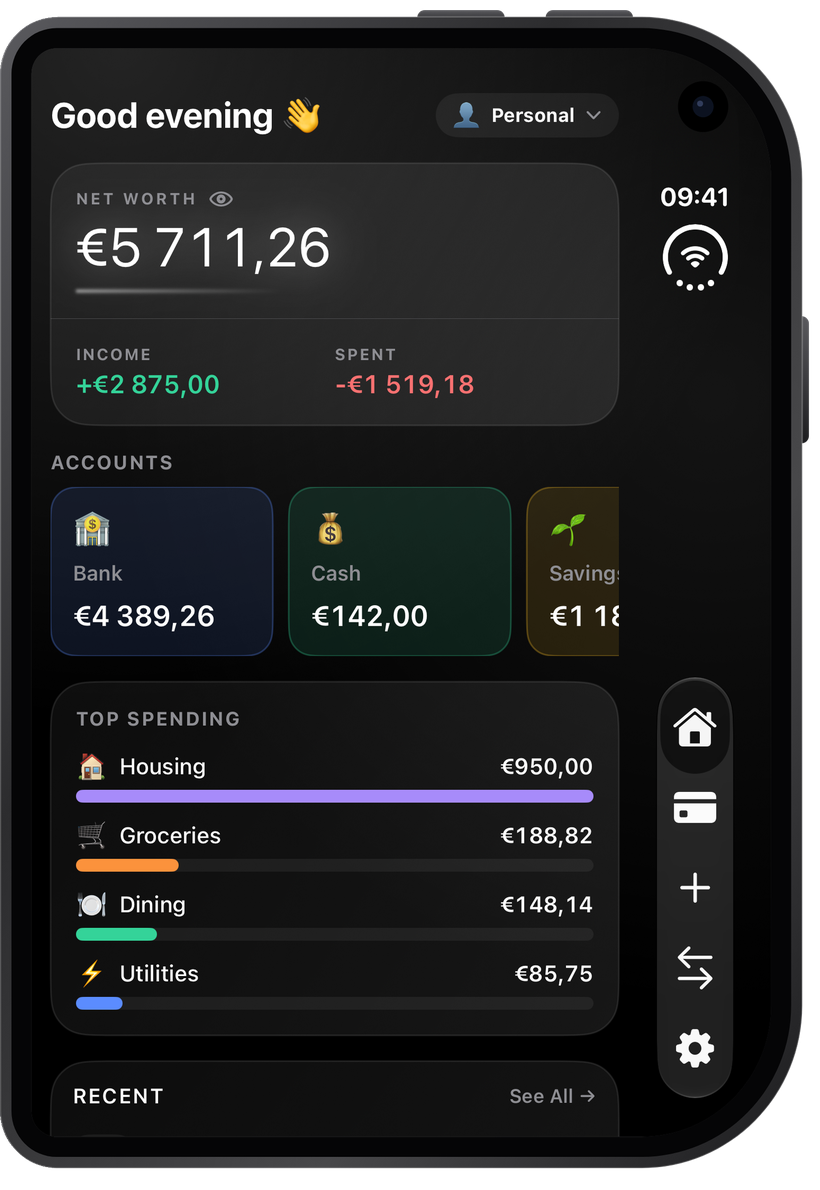
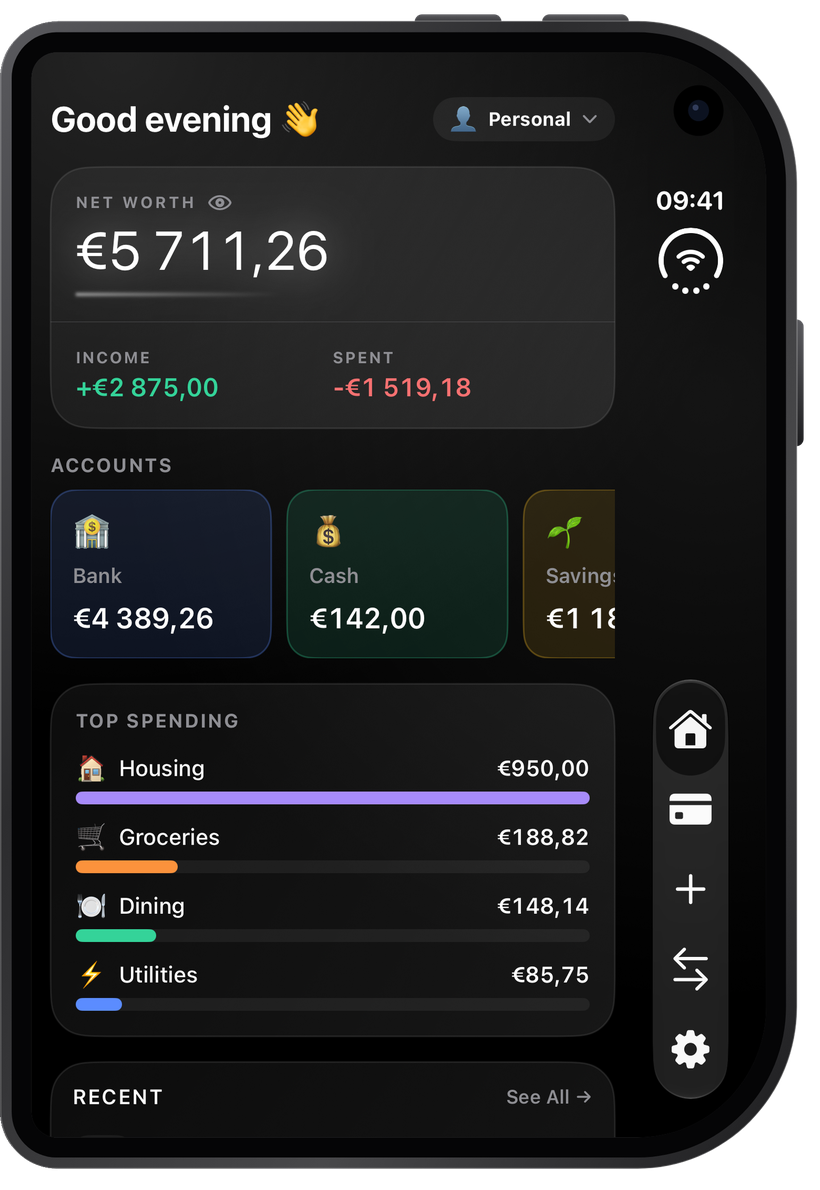
Website: Duo cover swings toward the viewer; open phone trimmed to its bare body so no doubled buttons show behind the cover

diff --git a/site/index.html b/site/index.html
@@ -191,7 +191,7 @@ footer .soc svg{width:20px;height:20px;fill:none;stroke:currentColor;stroke-widt
    off the base: the two frame drawings differ at the corners and buttons, so near flat the base would peek out */
 .duo-dev.open .r{visibility:visible;transition-delay:.12s}
 .duo-dev .cover{transform-origin:left center;transform-style:preserve-3d;transition:transform var(--t);will-change:transform}
-.duo-dev.open .cover{transform:rotateY(-180deg)}
+.duo-dev.open .cover{transform:rotateY(180deg)}   /* +180: swings toward the viewer, so it hides the base on the way */
 .duo-dev .face{position:absolute;inset:0;backface-visibility:hidden;-webkit-backface-visibility:hidden}
 .duo-dev .back{transform:rotateY(180deg)}
 .duo-dev img{display:block;pointer-events:none;user-select:none;-webkit-user-select:none;-webkit-user-drag:none}

diff --git a/templates/home.html b/templates/home.html
@@ -170,7 +170,7 @@ footer .soc svg{width:20px;height:20px;fill:none;stroke:currentColor;stroke-widt
    off the base: the two frame drawings differ at the corners and buttons, so near flat the base would peek out */
 .duo-dev.open .r{visibility:visible;transition-delay:.12s}
 .duo-dev .cover{transform-origin:left center;transform-style:preserve-3d;transition:transform var(--t);will-change:transform}
-.duo-dev.open .cover{transform:rotateY(-180deg)}
+.duo-dev.open .cover{transform:rotateY(180deg)}   /* +180: swings toward the viewer, so it hides the base on the way */
 .duo-dev .face{position:absolute;inset:0;backface-visibility:hidden;-webkit-backface-visibility:hidden}
 .duo-dev .back{transform:rotateY(180deg)}
 .duo-dev img{display:block;pointer-events:none;user-select:none;-webkit-user-select:none;-webkit-user-drag:none}

diff --git a/generator.py b/generator.py
@@ -119,18 +119,18 @@ DUO_SCALE = 1640 / 3082   # open frame width -> output width; closed uses the sa
 
 def _duo_cover(im):
     """Fit the closed phone onto the right half of the open one, edge to edge, so it can be the
-    cover that swings open: outer body x 66..1596, y 20..2170 -> inner right half x 0..1521, y 32..2194
+    cover that swings open: outer body x 66..1584, y 20..2170 -> open body's right half x 0..1499, y 40..2195
     (measured from the two frames). x 19..65 is the hinge spine drawn beside the phone; it is cut off,
     since it reads as a separate object once the cover lifts. x 66 starts the same 24px rim as the right edge."""
     from PIL import Image, ImageChops, ImageDraw
-    sx, sy = 1521 / (1596 - 66), (2194 - 32) / (2170 - 20)
+    sx, sy = 1499 / (1584 - 66), (2195 - 40) / (2170 - 20)
     body = im.resize((round(im.width * sx), round(im.height * sy)), Image.LANCZOS)
     half = Image.new("RGBA", (3082 // 2, 2236))
     body = body.crop((round(66 * sx), 0, round(66 * sx) + half.width, body.height))  # drop the spine
-    half.alpha_composite(body, (0, round(32 - 20 * sy)))
+    half.alpha_composite(body, (0, round(40 - 20 * sy)))
     # round the hinge-side corners like the others (screen radius 47 + 60 of bezel and rim), which also
     # clears the cut-off ends of the spine poking past the top and bottom
-    r, top, bot = 107, 32, 2194
+    r, top, bot = 107, 40, 2195
     keep = Image.new("L", half.size, 255)
     d = ImageDraw.Draw(keep)
     d.rectangle((0, 0, r, top + r), 0); d.ellipse((0, top, 2 * r, top + 2 * r), 255)
@@ -139,7 +139,7 @@ def _duo_cover(im):
     return half
 
 def _build_duo():
-    from PIL import Image, ImageDraw
+    from PIL import Image, ImageChops, ImageDraw
     base = pathlib.Path(__file__).parent / "appearances"
     for state, frame, shot, xy, radius, corners in DUO:
         # ponytail: an appearance without its own Duo captures borrows espresso's; capture them to fix
@@ -157,6 +157,11 @@ def _build_duo():
         im.alpha_composite(f)
         if state == "closed":
             im = _duo_cover(im)
+        else:   # bare body only (x 40..3040, y 40..2195, corner 200): its buttons sit elsewhere than the
+                # cover's, so they'd show doubled while the cover swings over it
+            keep = Image.new("L", im.size)
+            ImageDraw.Draw(keep).rounded_rectangle((40, 40, 3040, 2195), 200, fill=255)
+            im.putalpha(ImageChops.multiply(im.getchannel("A"), keep))
         im.resize((round(im.width * DUO_SCALE), round(im.height * DUO_SCALE)), Image.LANCZOS).save(
             dst, "WEBP", lossless=True, quality=100, method=6)
 
